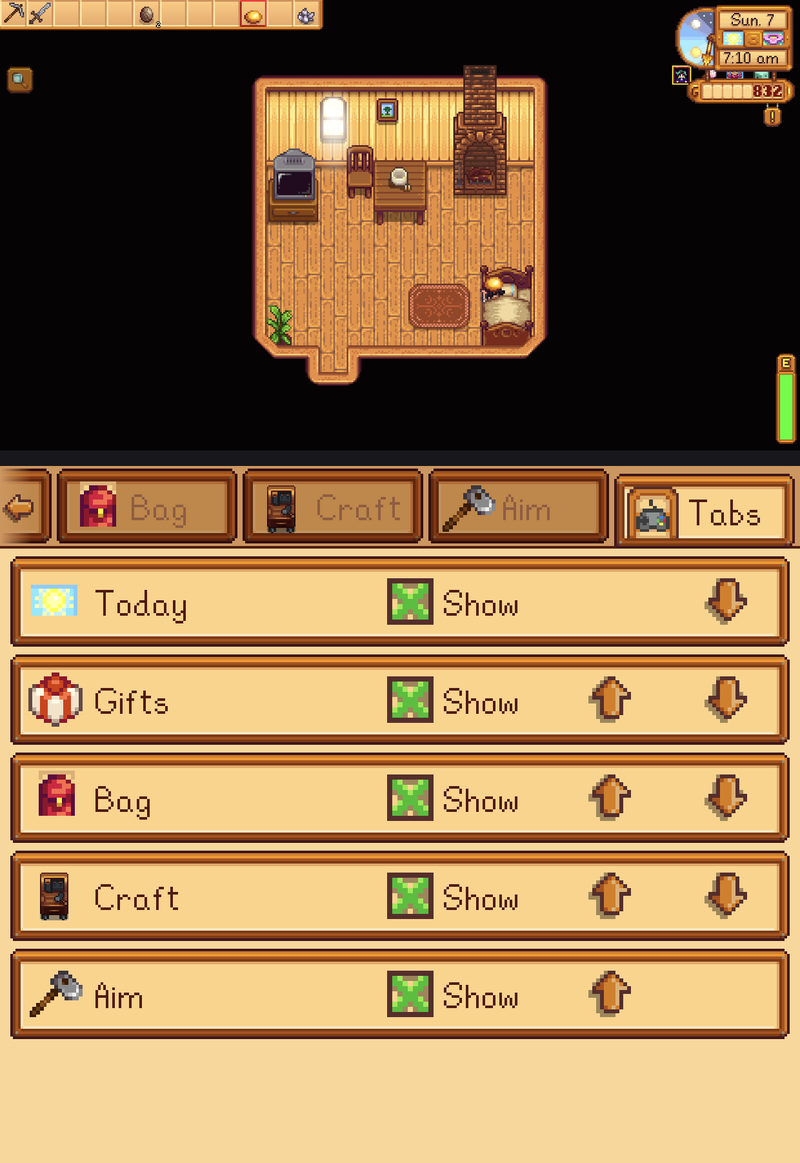
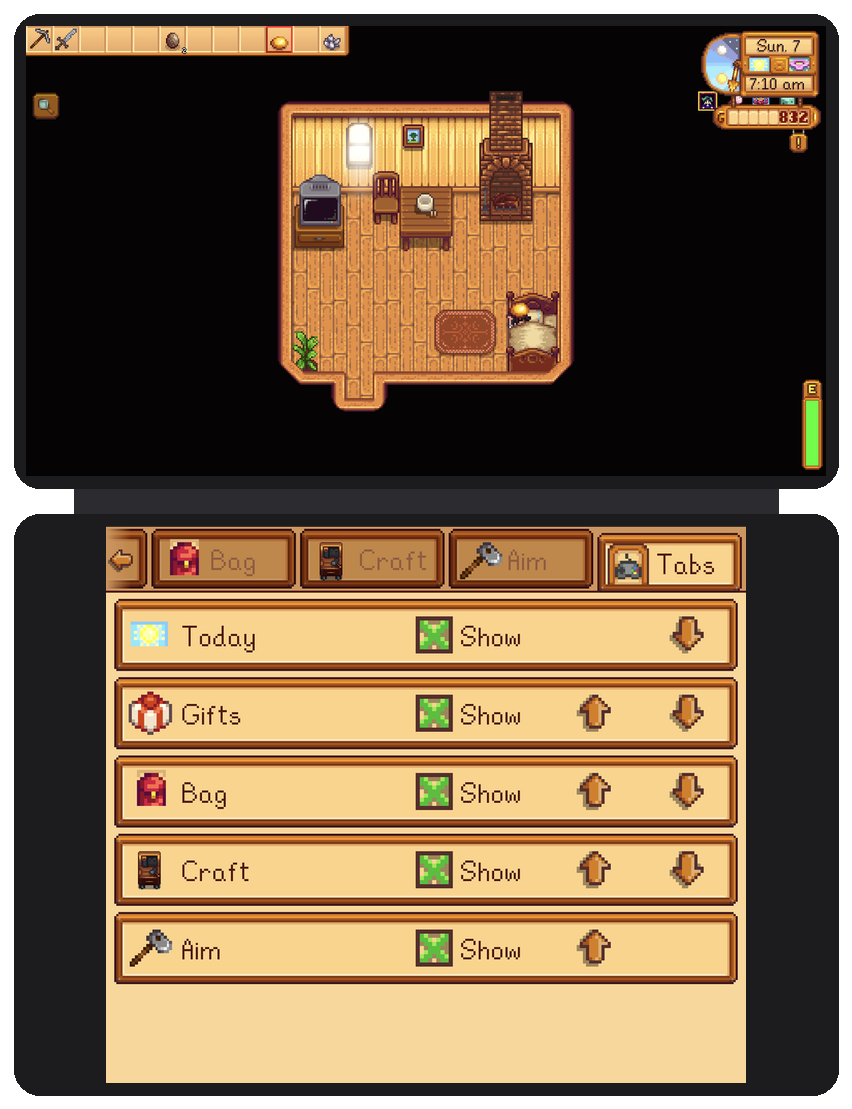
Title buttons wait for the intro; screenshots in a Thor device frame
The bottom title buttons appeared before the game's intro finished and
couldn't be clicked yet. They now follow the game's own readiness checks
and reveal order, and a tap during the intro skips it like on top.
Screenshots are re-framed as the Thor: both screens in dark bezels with a
hinge, matching the Wildermyth port's README.

diff --git a/mod/Panels.cs b/mod/Panels.cs
@@ -1674,7 +1674,9 @@ public class Panels
         switch (TitleMenu.subMenu)
         {
             case null:
-                for (int i = 0; i < Math.Min(tm.buttons.Count, 4); i++)
+                // Mirror the top screen: nothing during the intro, then buttons as the game reveals them.
+                if (!TitleReady(tm)) { Text(b, "Tap to skip", new Vector2(ModEntry.W / 2 - 50, ModEntry.H - 60), Color.White * 0.8f); break; }
+                for (int i = 0; i < Math.Min(Math.Min(tm.buttons.Count, 4), tm.buttonsToShow); i++)
                     b.Draw(tm.titleButtonsTexture, TitleButton(i), tm.buttons[i].sourceRect, Color.White);
                 break;
 
@@ -1743,7 +1745,9 @@ public class Panels
         switch (TitleMenu.subMenu)
         {
             case null:
-                for (int i = 0; i < Math.Min(tm.buttons.Count, 4); i++)
+                // During the intro any tap skips it, like clicking the top screen.
+                if (!TitleReady(tm)) { tm.receiveLeftClick(Game1.uiViewport.Width / 2, Game1.uiViewport.Height / 2); return; }
+                for (int i = 0; i < Math.Min(Math.Min(tm.buttons.Count, 4), tm.buttonsToShow); i++)
                     if (TitleButton(i).Contains(x, y))
                     {
                         // The top-screen copy is hidden, and hidden buttons ignore clicks; show it just for this one.
@@ -1767,6 +1771,9 @@ public class Panels
                 break;
         }
     }
+
+    /// <summary>The title is done animating in and takes clicks, the same checks the game uses.</summary>
+    static bool TitleReady(TitleMenu tm) => tm.titleInPosition && tm.logoFadeTimer <= 0 && tm.fadeFromWhiteTimer <= 0;
 
     static void ClickBack(TitleMenu tm)
     {
